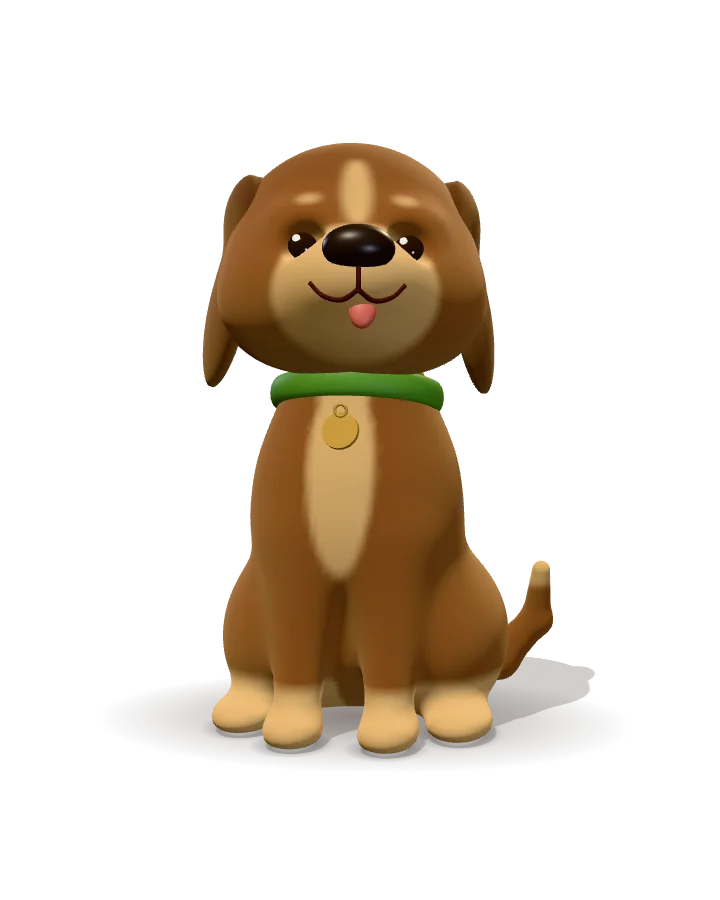
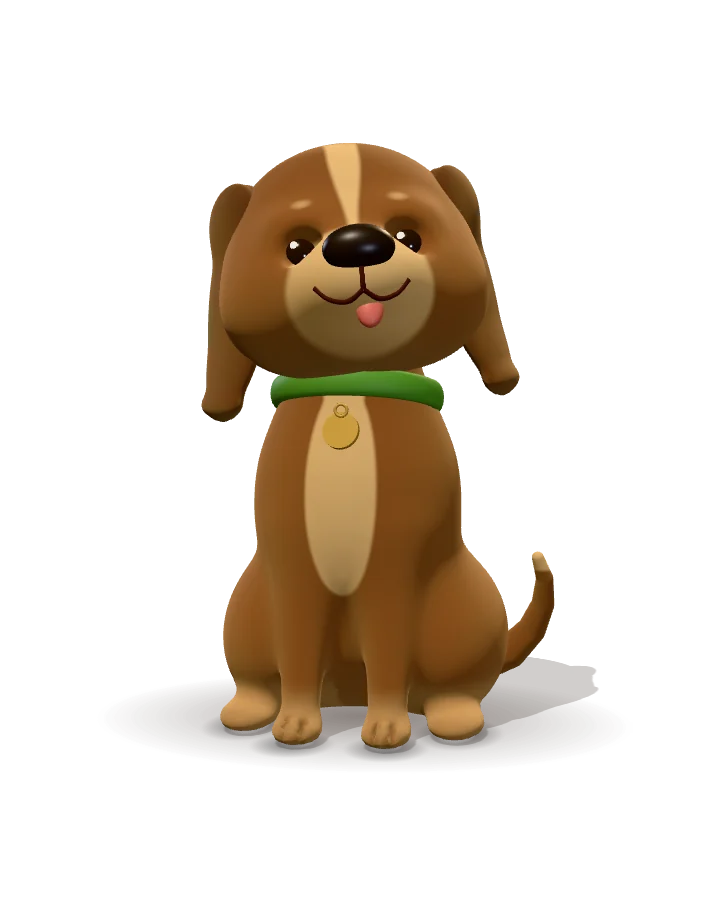
v3 Werkplaats: Bobbie ronde 2 — scherpe bef/bles, oren met dikte en omslag, taps toelopende staart, slankere poten met teenlijnen, scheve kop in rust
Aftekening per pixel (afstand-attribuut + smoothstep/fwidth) in plaats van vertexkleur; poster opnieuw gerenderd.

diff --git a/src/features/three-mascot/hond.js b/src/features/three-mascot/hond.js
@@ -23,6 +23,7 @@
 const STANDAARD = {
   vacht: 0x8f5a35, // warm kaneelbruin: leest op papier én op donker
   vachtDonker: 0x5e3720, // rug, oren
+  oorBinnen: 0x3f2216, // binnenkant van het oor
   aftekening: 0xe2bf86, // snuit, bef, poten, wenkbrauwen
   neus: 0x23160f,
   oog: 0x2a170c,
@@ -35,6 +36,12 @@ const STANDAARD = {
 
 // --- signed distance functions ---------------------------------------------------------------
 const len = (x, y, z) => Math.sqrt(x * x + y * y + z * z);
+// 2D-ellips (x,y) als benaderde afstand: voor vlakke aftekening op de voorkant
+function ellips2(px, py, cx, cy, rx, ry) {
+  const x = (px - cx) / rx, y = (py - cy) / ry;
+  const k0 = Math.hypot(x, y), k1 = Math.hypot(x / rx, y / ry);
+  return k1 > 1e-6 ? (k0 * (k0 - 1)) / k1 : -Math.min(rx, ry);
+}
 function ellips(px, py, pz, c, r) {
   const x = (px - c[0]) / r[0], y = (py - c[1]) / r[1], z = (pz - c[2]) / r[2];
   const k0 = len(x, y, z);
@@ -58,12 +65,14 @@ const sstap = (e0, e1, x) => { const t = Math.max(0, Math.min(1, (x - e0) / (e1 
 // --- vormen (lokale coördinaten; +z = naar de kijker, grond op y = -2) ------------------------
 function lijfSdf(x, y, z) {
   const ax = Math.abs(x);
-  let d = ellips(x, y, z, [0, -0.7, 0.1], [0.66, 0.84, 0.64]); // borstkas
+  let d = ellips(x, y, z, [0, -0.64, 0.08], [0.64, 0.78, 0.62]); // borstkas
   d = smin(d, ellips(x, y, z, [0, -1.42, -0.42], [0.74, 0.56, 0.78]), 0.45); // achterlijf
   d = smin(d, ellips(ax, y, z, [0.52, -1.5, -0.2], [0.38, 0.47, 0.64]), 0.28); // dijen
-  d = smin(d, ellips(ax, y, z, [0.66, -1.9, 0.3], [0.2, 0.12, 0.34]), 0.16); // achterpoten
-  d = smin(d, staaf(ax, y, z, [0.26, -0.82, 0.44], [0.27, -1.8, 0.6], 0.18, 0.135), 0.2); // voorpoten
-  d = smin(d, ellips(ax, y, z, [0.28, -1.9, 0.7], [0.175, 0.115, 0.23]), 0.1); // voorvoeten
+  d = smin(d, ellips(ax, y, z, [0.64, -1.91, 0.3], [0.17, 0.1, 0.28]), 0.14); // achtervoeten
+  d = smin(d, staaf(ax, y, z, [0.25, -0.76, 0.42], [0.26, -1.82, 0.56], 0.15, 0.112), 0.18); // voorpoten
+  d = smin(d, ellips(ax, y, z, [0.265, -1.91, 0.64], [0.145, 0.095, 0.19]), 0.08); // voorvoeten
+  // teenlijnen: twee ondiepe groeven voor op elke voorvoet
+  d = smax(d, -ellips(Math.abs(ax - 0.265), y, z, [0.05, -1.86, 0.8], [0.016, 0.07, 0.1]), 0.025);
   d = smin(d, staaf(x, y, z, [0, -0.3, 0.06], [0, 0.32, 0.16], 0.44, 0.38), 0.3); // nek
   // zachte groef tussen de voorpoten: twee poten in plaats van één stam
   d = smax(d, -ellips(x, y, z, [0, -1.5, 0.78], [0.075, 0.42, 0.3]), 0.1);
@@ -71,18 +80,20 @@ function lijfSdf(x, y, z) {
 }
 function lijfKleur(x, y, z, k, uit) {
   const ax = Math.abs(x);
-  // bef: druppel op de borst
-  // bef: van de keel naar de borst, met een strakkere rand (minder airbrush)
-  const bef = 1 - sstap(-0.03, 0.035, Math.min(
-    ellips(x, y, z, [0, -0.42, 0.6], [0.2, 0.6, 0.32]),
-    ellips(x, y, z, [0, 0.05, 0.42], [0.16, 0.36, 0.3]),
-  ));
-  // poten: sokken
-  const sok = 1 - sstap(-1.7, -1.62, y);
+  // sokken: dicht bij de vachtkleur, zacht verloop
+  const sok = (1 - sstap(-1.78, -1.62, y)) * (ax > 0.1 ? 1 : 0);
   // rug iets donkerder (zadel)
   const zadel = sstap(-0.3, 0.6, -z * 0.8 + (y + 0.8) * 0.35) * 0.55;
   menging(uit, k.vacht, k.vachtDonker, zadel);
-  menging(uit, uit, k.aftekening, Math.max(bef, sok * (ax > 0.1 ? 1 : 0)));
+  menging(uit, uit, k.aftekening, sok * 0.42);
+  // teenlijnen iets donkerder
+  const teen = 1 - sstap(0.006, 0.03, Math.abs(Math.abs(ax - 0.265) - 0.05));
+  menging(uit, uit, k.vachtDonker, teen * sstap(-1.8, -1.84, y) * sstap(0.66, 0.74, z) * 0.6);
+  // bef als vorm (afstand tot de rand, scherp in de shader): begint smal bij de keel, schild op de borst
+  uit.m = Math.max(Math.min(
+    ellips2(x, y, 0, -0.5, 0.21, 0.62),
+    ellips2(x, y, 0, 0.05, 0.12, 0.42),
+  ), 0.2 - z);
 }
 
 function kopSdf(x, y, z) {
@@ -98,31 +109,40 @@ function kopSdf(x, y, z) {
 }
 function kopKleur(x, y, z, k, uit) {
   const ax = Math.abs(x);
-  const snuit = 1 - sstap(-0.03, 0.02, ellips(x, y, z, [0, -0.15, 0.5], [0.4, 0.32, 0.6]));
-  const brauw = 1 - sstap(-0.02, 0.03, ellips(ax, y, z, [0.21, 0.27, 0.47], [0.08, 0.05, 0.08]));
-  const bles = 1 - sstap(-0.03, 0.05, ellips(x, y, z, [0, 0.32, 0.5], [0.06, 0.22, 0.2]));
   const kruin = sstap(0.1, 0.6, y - z * 0.3) * 0.5;
   menging(uit, k.vacht, k.vachtDonker, kruin);
-  menging(uit, uit, k.aftekening, Math.max(snuit, brauw, bles * 0.9));
+  // aftekening als vorm: snuit, wenkbrauwvlekjes en een bles die naar de snuit smaller wordt
+  const bles = Math.max(ax - (0.022 + 0.055 * sstap(0.12, 0.55, y)), 0.1 - y, y - 0.66, 0.15 - z);
+  uit.m = Math.min(
+    ellips(x, y, z, [0, -0.15, 0.52], [0.35, 0.3, 0.6]),
+    ellips(ax, y, z, [0.21, 0.27, 0.47], [0.08, 0.05, 0.08]),
+    bles,
+  );
 
 }
 
 function oorSdf(x, y, z) {
-  // hangoor: afgeplatte druppel die naar onderen breder en dunner wordt
-  const dik = 0.07 + 0.03 * sstap(0, -0.6, y);
-  let d = ellips(x, y, z, [0, -0.36, 0.02], [dik, 0.44, 0.24]);
-  d = smin(d, ellips(x, y, z, [0, -0.02, 0], [0.1, 0.14, 0.16]), 0.12);
+  // hangoor met dikte, naar onderen breder; +x = buitenkant. De punt slaat licht naar buiten om.
+  const buig = 0.05 * sstap(-0.5, -0.82, y); // punt licht naar buiten
+  let d = ellips(x - buig, y, z, [0, -0.4, 0.02], [0.085, 0.46, 0.23]);
+  d = smin(d, ellips(x, y, z, [0, -0.02, 0], [0.11, 0.15, 0.17]), 0.12);
+  d = smin(d, ellips(x, y, z, [0.065, -0.8, 0.02], [0.05, 0.045, 0.16]), 0.06); // omgeslagen rand
   return d;
 }
+// taps toelopende staart in een vloeiende boog (ligt op de grond, krult omhoog)
+const STAART = [[0, 0, 0, 0.15], [0.24, 0.02, -0.1, 0.135], [0.45, 0.1, -0.16, 0.115], [0.6, 0.26, -0.17, 0.097],
+  [0.69, 0.45, -0.12, 0.078], [0.72, 0.64, -0.04, 0.058], [0.69, 0.79, 0.04, 0.04]];
 function staartSdf(x, y, z) {
-  let d = staaf(x, y, z, [0, 0, 0], [0.38, 0.06, -0.12], 0.15, 0.13);
-  d = smin(d, staaf(x, y, z, [0.38, 0.06, -0.12], [0.64, 0.34, -0.14], 0.13, 0.1), 0.08);
-  d = smin(d, staaf(x, y, z, [0.64, 0.34, -0.14], [0.7, 0.7, -0.02], 0.1, 0.06), 0.06);
+  let d = 1e9;
+  for (let i = 0; i < STAART.length - 1; i += 1) {
+    const a = STAART[i], b = STAART[i + 1];
+    d = Math.min(d, staaf(x, y, z, a, b, a[3], b[3])); // kapsules met gelijke straal op de knik: naadloos
+  }
   return d;
 }
 
 // --- surface nets ---------------------------------------------------------------------------
-const tmpKleur = { r: 0, g: 0, b: 0 };
+const tmpKleur = { r: 0, g: 0, b: 0, m: 1 };
 function menging(uit, a, b, t) {
   const ar = a.r, ag = a.g, ab = a.b;
   uit.r = ar + (b.r - ar) * t; uit.g = ag + (b.g - ag) * t; uit.b = ab + (b.b - ab) * t;
@@ -143,7 +163,7 @@ function veldNaarMesh(THREE, sdf, min, max, stap, kleur) {
   const at = (i, j, k) => v[i + nx * (j + ny * k)];
   const cx = nx - 1, cy = ny - 1;
   const cel = new Int32Array(cx * cy * (nz - 1)).fill(-1);
-  const pos = [], nor = [], col = [];
+  const pos = [], nor = [], col = [], merk = [];
   const e = stap * 0.5;
   const grad = (x, y, z) => {
     const gx = sdf(x + e, y, z) - sdf(x - e, y, z);
@@ -174,9 +194,9 @@ function veldNaarMesh(THREE, sdf, min, max, stap, kleur) {
       x -= g[0] * d; y -= g[1] * d; z -= g[2] * d;
     }
     const g = grad(x, y, z);
-    kleur(x, y, z, tmpKleur);
+    tmpKleur.m = 1; kleur(x, y, z, tmpKleur);
     cel[i + cx * (j + cy * k)] = pos.length / 3;
-    pos.push(x, y, z); nor.push(g[0], g[1], g[2]); col.push(tmpKleur.r, tmpKleur.g, tmpKleur.b);
+    pos.push(x, y, z); nor.push(g[0], g[1], g[2]); col.push(tmpKleur.r, tmpKleur.g, tmpKleur.b); merk.push(tmpKleur.m);
   }
   const idx = [];
   const ci = (i, j, k) => cel[i + cx * (j + cy * k)];
@@ -194,6 +214,7 @@ function veldNaarMesh(THREE, sdf, min, max, stap, kleur) {
   geo.setAttribute('position', new THREE.Float32BufferAttribute(pos, 3));
   geo.setAttribute('normal', new THREE.Float32BufferAttribute(nor, 3));
   geo.setAttribute('color', new THREE.Float32BufferAttribute(col, 3));
+  geo.setAttribute('merk', new THREE.Float32BufferAttribute(merk, 1));
   geo.setIndex(idx);
   return geo;
 }
@@ -217,15 +238,30 @@ export function bouwHond(THREE, kleuren = {}) {
   const g = new THREE.Group();
 
   // vacht: mat, met sheen voor het zachte, fluweelachtige randje dat vacht van klei onderscheidt
-  const vachtMat = () => new THREE.MeshPhysicalMaterial({
-    vertexColors: true, roughness: 0.82, metalness: 0,
-    sheen: 0.7, sheenRoughness: 0.55, sheenColor: new THREE.Color(hex.aftekening),
-  });
+  // De aftekening is geen vertexkleur maar een afstand tot de rand (attribuut 'merk', < 0 = binnen):
+  // per pixel overgevloeid met een smalle, licht zachte rand, onafhankelijk van de rasterdichtheid.
+  const vachtMat = () => {
+    const m = new THREE.MeshPhysicalMaterial({
+      vertexColors: true, roughness: 0.82, metalness: 0,
+      sheen: 0.7, sheenRoughness: 0.55, sheenColor: new THREE.Color(hex.aftekening),
+    });
+    m.onBeforeCompile = (sh) => {
+      sh.uniforms.uMerk = { value: k.aftekening };
+      sh.vertexShader = sh.vertexShader
+        .replace('#include <common>', '#include <common>\nattribute float merk;\nvarying float vMerk;')
+        .replace('#include <begin_vertex>', '#include <begin_vertex>\nvMerk = merk;');
+      sh.fragmentShader = sh.fragmentShader
+        .replace('#include <common>', '#include <common>\nvarying float vMerk;\nuniform vec3 uMerk;')
+        .replace('#include <color_fragment>', '#include <color_fragment>\nfloat wM = max(fwidth(vMerk), 0.016);\ndiffuseColor.rgb = mix(diffuseColor.rgb, uMerk, 1.0 - smoothstep(-wM, wM, vMerk));');
+    };
+    m.customProgramCacheKey = () => 'hond-vacht';
+    return m;
+  };
   // alleen de grond vangt schaduw: zelfschaduw gaf harde vlekken op kop en borst
   const schaduwen = (m) => { m.castShadow = true; return m; };
 
   const lijf = schaduwen(new THREE.Mesh(
-    veldNaarMesh(THREE, lijfSdf, [-1.05, -2.12, -1.4], [1.05, 1.0, 1.2], 0.04, (x, y, z, o) => lijfKleur(x, y, z, k, o)),
+    veldNaarMesh(THREE, lijfSdf, [-1.05, -2.12, -1.4], [1.05, 1.0, 1.2], 0.036, (x, y, z, o) => lijfKleur(x, y, z, k, o)),
     vachtMat(),
   ));
   g.add(lijf);
@@ -269,18 +305,21 @@ export function bouwHond(THREE, kleuren = {}) {
     glim.position.set(-0.028, 0.035, 0.074); o.add(glim);
   }
 
-  const oorGeo = veldNaarMesh(THREE, oorSdf, [-0.2, -0.85, -0.3], [0.2, 0.18, 0.32], 0.022, (x, y, z, o) => menging(o, k.vachtDonker, k.vacht, sstap(0.05, -0.2, y) * 0.25));
+  const oorGeo = veldNaarMesh(THREE, oorSdf, [-0.2, -0.95, -0.3], [0.32, 0.22, 0.32], 0.02, (x, y, z, o) => {
+    menging(o, k.vachtDonker, k.vacht, sstap(0.05, -0.2, y) * 0.2);
+    menging(o, o, k.oorBinnen, sstap(0.0, -0.06, x - 0.05 * sstap(-0.5, -0.82, y))); // binnenkant donkerder
+  });
   const oren = [];
   for (const s of [-1, 1]) {
-    const piv = new THREE.Group(); piv.position.set(s * 0.52, 0.36, 0.02); kop.add(piv);
+    const piv = new THREE.Group(); piv.position.set(s * 0.53, 0.37, 0.04); kop.add(piv);
     const oor = schaduwen(new THREE.Mesh(oorGeo, vachtMat()));
-    oor.scale.set(1, 1.15, 1.1); oor.rotation.set(0.05, s * -0.2, s * 0.12); piv.add(oor);
+    oor.scale.set(s, 1.18, 1.08); oor.rotation.set(0.04, s * -0.55, s * 0.08); piv.add(oor); // gespiegeld: +x blijft buiten
     piv.userData.s = s; oren.push(piv);
   }
 
   const staart = new THREE.Group(); staart.position.set(0.4, -1.84, -0.92); g.add(staart);
   staart.add(schaduwen(new THREE.Mesh(
-    veldNaarMesh(THREE, staartSdf, [-0.18, -0.18, -0.32], [0.86, 0.8, 0.16], 0.025, (x, y, z, o) => menging(o, k.vacht, k.aftekening, sstap(0.56, 0.63, y))),
+    veldNaarMesh(THREE, staartSdf, [-0.2, -0.2, -0.36], [0.9, 0.92, 0.2], 0.022, (x, y, z, o) => { menging(o, k.vacht, k.vachtDonker, 0.25); o.m = 0.7 - y; }),
     vachtMat(),
   )));
 
@@ -326,7 +365,7 @@ export function bouwHond(THREE, kleuren = {}) {
   return {
     group: g,
     delen: { kop, ogen, oren, staart, romp: lijf, vanger, blob, pootVlekMat },
-    toestand: { kopZ: 0, staartFase: 0, curX: 0, curY: 0, kopY: kop.position.y, rustY: g.rotation.y },
+    toestand: { kopZ: 0.12, staartFase: 0, curX: 0, curY: 0, kopY: kop.position.y, rustY: g.rotation.y },
   };
 }
 
@@ -392,7 +431,8 @@ export function animeerHond(h, s) {
   const ty = stil > 3 ? s.kijk + Math.sin(s.time * 0.35) * 0.12 : s.targetY;
   const vorigY = t.curY;
   t.curX += (tx - t.curX) * 0.08; t.curY += (ty - t.curY) * 0.08;
-  const tz = stil > 1.2 && stil < 3.2 ? 0.22 : 0;
+  // rusthouding: kop licht scheef (±7°); bij even stilstand verder ("en nu?")
+  const tz = stil > 1.2 && stil < 3.2 ? 0.24 : 0.12;
   t.kopZ += (tz - t.kopZ) * 0.06;
   d.kop.rotation.set(t.curX, t.curY + 0.18, t.kopZ); // +0.18 compenseert de driekwartdraai: de kop kijkt naar je
   h.group.rotation.y = t.rustY + t.curY * 0.2;
